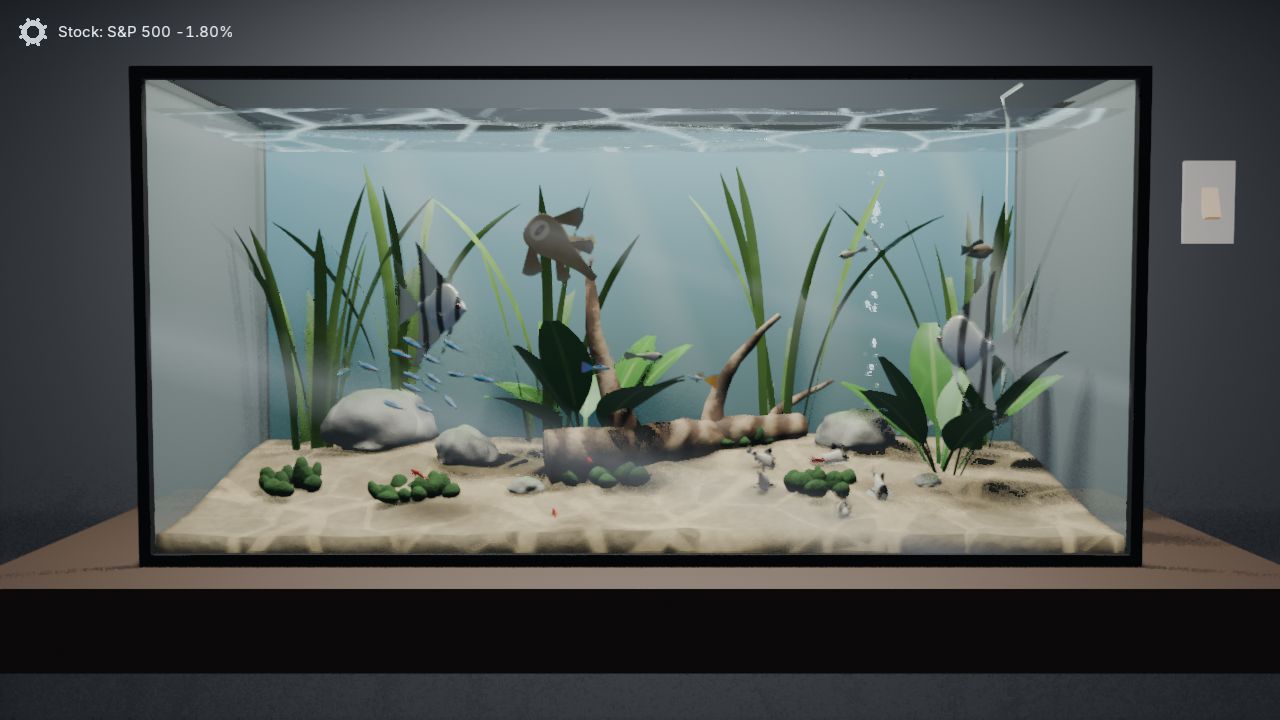
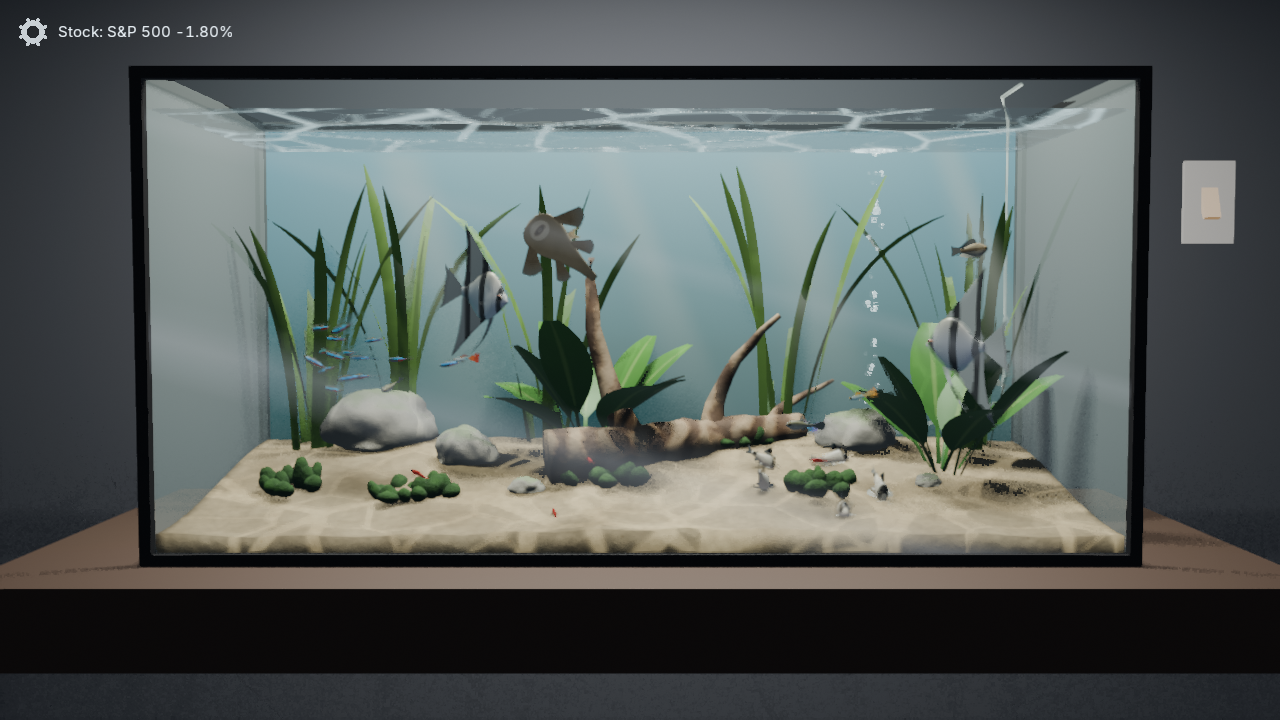
Balance the depth shift so up days visibly lift the fish
shift_band now moves a band's center the shift's fraction of the way
to the surface or the sand, squeezing it against the end to no less than
0.12 wide, and up shifts ease the species' surface_margin toward 0.03 m
so fish can reach the raised band.  Up days now lift guppies and
angelfish too, not just the tetras; the stock shots are retaken.

diff --git a/tests/test_tank.py b/tests/test_tank.py
@@ -3,9 +3,12 @@ import math
 import unittest
 
 from tankful.game.main import parse_size
+from tankful.sim import fish as fish_mod
 from tankful.sim.species import angelfish
+from tankful.sim.species import guppy
 from tankful.sim.species import neon_tetra
-from tankful.sim.tank import Tank, factor_species, shift_band
+from tankful.sim.tank import (MIN_SURFACE_MARGIN, Tank, factor_species,
+                               lift_margin, shift_band)
 
 
 class TankTests(unittest.TestCase):
@@ -32,16 +35,64 @@ class ShiftBandTests(unittest.TestCase):
 
   def test_full_shifts_reach_either_end(self):
     lo, hi = shift_band((0.3, 0.6), 1.0)
-    self.assertAlmostEqual(lo, 0.7)
+    self.assertAlmostEqual(lo, 0.85)
     self.assertAlmostEqual(hi, 1.0)
     lo, hi = shift_band((0.3, 0.6), -1.0)
     self.assertAlmostEqual(lo, 0.0)
-    self.assertAlmostEqual(hi, 0.3)
+    self.assertAlmostEqual(hi, 0.15)
 
-  def test_half_shift_goes_half_way_and_keeps_width(self):
+  def test_half_shift_moves_the_center_half_way_and_keeps_width(self):
     lo, hi = shift_band((0.2, 0.5), -0.5)
-    self.assertAlmostEqual(lo, 0.1)
+    self.assertAlmostEqual((lo + hi) / 2, 0.175)
     self.assertAlmostEqual(hi - lo, 0.3)
+    lo, hi = shift_band((0.2, 0.5), 0.5)
+    self.assertAlmostEqual((lo + hi) / 2, 0.675)
+    self.assertAlmostEqual(hi - lo, 0.3)
+
+  def test_high_bands_rise_most_of_their_room(self):
+    # The day bands of angelfish, guppies and tetras: a 0.8 up day lifts
+    # each center by over half the room above it (shift * (1 - hi), all
+    # an up day once had, left guppies 0.06 higher), as a down day sinks
+    # it by over half the room below
+    for band in ((0.4, 0.8), (0.55, 0.93), (0.3, 0.62)):
+      center = sum(band) / 2
+      up = sum(shift_band(band, 0.8)) / 2 - center
+      down = center - sum(shift_band(band, -0.8)) / 2
+      self.assertGreater(up, 0.5 * (1 - center), band)
+      self.assertGreater(up, 0.12, band)
+      self.assertGreater(down, 0.5 * center, band)
+    # The gourami's band is at the surface already: it stays there,
+    # squeezed only to the minimum width
+    lo, hi = shift_band((0.86, 1.0), 0.8)
+    self.assertEqual(hi, 1.0)
+    self.assertAlmostEqual(lo, 0.88)
+
+  def test_bands_stay_within_the_tank(self):
+    for band in ((0.0, 0.1), (0.0, 0.2), (0.0, 1.0), (0.4, 0.8),
+                 (0.86, 1.0), (0.9, 1.0)):
+      for shift in (-1.0, -0.9, -0.4, 0.4, 0.8, 1.0):
+        lo, hi = shift_band(band, shift)
+        self.assertGreaterEqual(lo, 0.0, (band, shift))
+        self.assertLessEqual(hi, 1.0, (band, shift))
+        self.assertGreaterEqual(hi - lo, min(0.12, band[1] - band[0]) - 1e-9)
+        self.assertLessEqual(hi - lo, band[1] - band[0] + 1e-9)
+
+  def test_sand_bands_stay_on_the_sand_on_down_days(self):
+    # Corydoras and cherry shrimp
+    for band in ((0.0, 0.1), (0.0, 0.2)):
+      for shift in (-0.2, -0.9, -1.0):
+        lo, hi = shift_band(band, shift)
+        self.assertAlmostEqual(lo, 0.0)
+        self.assertLessEqual(hi, band[1])
+        self.assertGreaterEqual(hi, min(0.12, band[1]))
+
+  def test_squeezed_bands_keep_a_minimum_width(self):
+    lo, hi = shift_band((0.55, 0.93), 1.0)
+    self.assertAlmostEqual(hi, 1.0)
+    self.assertAlmostEqual(hi - lo, 0.19)
+    lo, hi = shift_band((0.4, 0.8), -0.95)
+    self.assertAlmostEqual(lo, 0.0)
+    self.assertGreaterEqual(hi - lo, 0.12)
 
   def test_out_of_range_is_clamped(self):
     self.assertEqual(shift_band((0.3, 0.6), 3.0), shift_band((0.3, 0.6), 1.0))
@@ -59,6 +110,49 @@ class FactorSpeciesTests(unittest.TestCase):
     self.assertAlmostEqual(f.night.depth_band[0], 0.0)
     self.assertEqual(f.name, s.name)
     self.assertEqual(f.length, s.length)
+
+  def test_up_shifts_let_fish_nearer_the_surface(self):
+    s = guppy.SPECIES
+    self.assertIsNone(s.surface_margin)
+    up = factor_species(s, 1.0, 0.8)
+    self.assertLess(up.surface_margin, fish_mod.MARGIN)
+    self.assertGreaterEqual(up.surface_margin, MIN_SURFACE_MARGIN)
+    self.assertLessEqual(up.night.surface_margin, s.night.surface_margin)
+    down = factor_species(s, 1.0, -0.8)
+    self.assertIsNone(down.surface_margin)
+    self.assertEqual(down.night.surface_margin, s.night.surface_margin)
+
+  def test_lift_margin(self):
+    self.assertAlmostEqual(lift_margin(None, 0.0), fish_mod.MARGIN)
+    self.assertAlmostEqual(lift_margin(None, 1.0), MIN_SURFACE_MARGIN)
+    self.assertAlmostEqual(lift_margin(0.1, 0.5),
+                           (0.1 + MIN_SURFACE_MARGIN) / 2)
+    self.assertEqual(lift_margin(0.02, 1.0), 0.02)
+    self.assertAlmostEqual(lift_margin(0.1, 3.0), MIN_SURFACE_MARGIN)
+
+
+class DepthShiftSwimTests(unittest.TestCase):
+  """Guppies, which swim near the surface, rise visibly on an up day,
+  though they have only about 0.1 m above them to rise into (an up day
+  once lifted them under 0.01 m), and sink on a down day."""
+
+  def mean_height(self, shift):
+    tank = Tank()
+    guppy.stock(tank)
+    tank.set_factor(1.0, shift)
+    heights = []
+    for i in range(30 * 60):
+      tank.step(1 / 60)
+      if i >= 10 * 60 and i % 30 == 0:
+        heights.extend(f.z for f in tank.fish)
+    return sum(heights) / len(heights)
+
+  def test_up_lifts_and_down_sinks(self):
+    neutral = self.mean_height(0.0)
+    up = self.mean_height(0.8) - neutral
+    down = neutral - self.mean_height(-0.8)
+    self.assertGreater(up, 0.03)
+    self.assertGreater(down, 0.1)
 
 
 class TankFactorTests(unittest.TestCase):

diff --git a/tankful/sim/tank.py b/tankful/sim/tank.py
@@ -3,12 +3,20 @@
 import random
 
 from tankful.sim import daynight
+from tankful.sim import fish as fish_mod
 from tankful.sim import weather
 
 # The steps the external factor's speed scale and depth shift are taken
 # in (set_factor): each step is a new species for the fish, so an easing
 # value settles instead of making a new one every frame
 FACTOR_STEP = 0.01
+# A depth band squeezed against the surface or the sand by a depth shift
+# keeps at least this width (shift_band)
+MIN_SHIFTED_WIDTH = 0.12
+# On a full up shift the surface pushes a fish down only this near its
+# swim box's top (m), so it can reach a band raised to the surface
+# (factor_species)
+MIN_SURFACE_MARGIN = 0.03
 # How skittish fish swim at full skittishness: their flicks this many
 # times as often, their wander this much wider, their turns this much
 # quicker, and their hovering this many times as rare (factor_species)
@@ -165,12 +173,29 @@ class Tank:
 
 def shift_band(band, shift):
   """A depth band (lo, hi, fractions from the sand to the surface) moved
-  by shift: toward the surface for shift above 0, all the way up at 1,
-  and toward the sand below 0, all the way down at -1.  Its width stays."""
+  by shift: toward the surface for shift above 0 and toward the sand
+  below 0.  Its center goes that fraction of the way from where it is to
+  the surface or the sand, so a high band rises about as visibly as a
+  low one sinks, and at 1 or -1 the center is at the end.  A band pushed
+  past an end is squeezed against it, never narrower than
+  MIN_SHIFTED_WIDTH (or its own width), so it never leaves 0 to 1: a band
+  on the sand stays there on a down day."""
   lo, hi = band
   shift = min(1.0, max(-1.0, shift))
-  move = shift * (1.0 - hi) if shift > 0 else shift * lo
-  return (lo + move, hi + move)
+  if not shift:
+    return (lo, hi)
+  half = (hi - lo) / 2.0
+  center = (lo + hi) / 2.0
+  end = 1.0 if shift > 0 else 0.0
+  center += abs(shift) * (end - center)
+  lo, hi = max(0.0, center - half), min(1.0, center + half)
+  width = min(MIN_SHIFTED_WIDTH, 2.0 * half)
+  if hi - lo < width:
+    if shift > 0:
+      lo = hi - width
+    else:
+      hi = lo + width
+  return (lo, hi)
 
 
 def _step(value):
@@ -195,8 +220,30 @@ def factor_species(species, speed_scale, depth_shift, skittish=0.0):
              'turn_accel': species.turn_accel * turn,
              'hover_chance': species.hover_chance
              / (1.0 + SKITTISH_HOVER * skittish)}
+  if depth_shift > 0:
+    changes['surface_margin'] = lift_margin(species.surface_margin,
+                                            depth_shift)
   night = species.night
-  if night is not None and night.depth_band is not None:
-    changes['night'] = night._replace(
-      depth_band=shift_band(night.depth_band, depth_shift))
+  if night is not None:
+    night_changes = {}
+    if night.depth_band is not None:
+      night_changes['depth_band'] = shift_band(night.depth_band, depth_shift)
+    if depth_shift > 0 and night.surface_margin is not None:
+      night_changes['surface_margin'] = lift_margin(night.surface_margin,
+                                                    depth_shift)
+    if night_changes:
+      changes['night'] = night._replace(**night_changes)
   return species._replace(**changes)
+
+
+def lift_margin(margin, shift):
+  """A species' surface_margin (None for the fish's default) eased
+  toward MIN_SURFACE_MARGIN by an up shift (0 to 1): the surface's push
+  starts within a band's reach of its top, and a margin already as small
+  stays."""
+  if margin is None:
+    margin = fish_mod.MARGIN
+  shift = min(1.0, max(0.0, shift))
+  if margin <= MIN_SURFACE_MARGIN:
+    return margin
+  return margin + (MIN_SURFACE_MARGIN - margin) * shift
